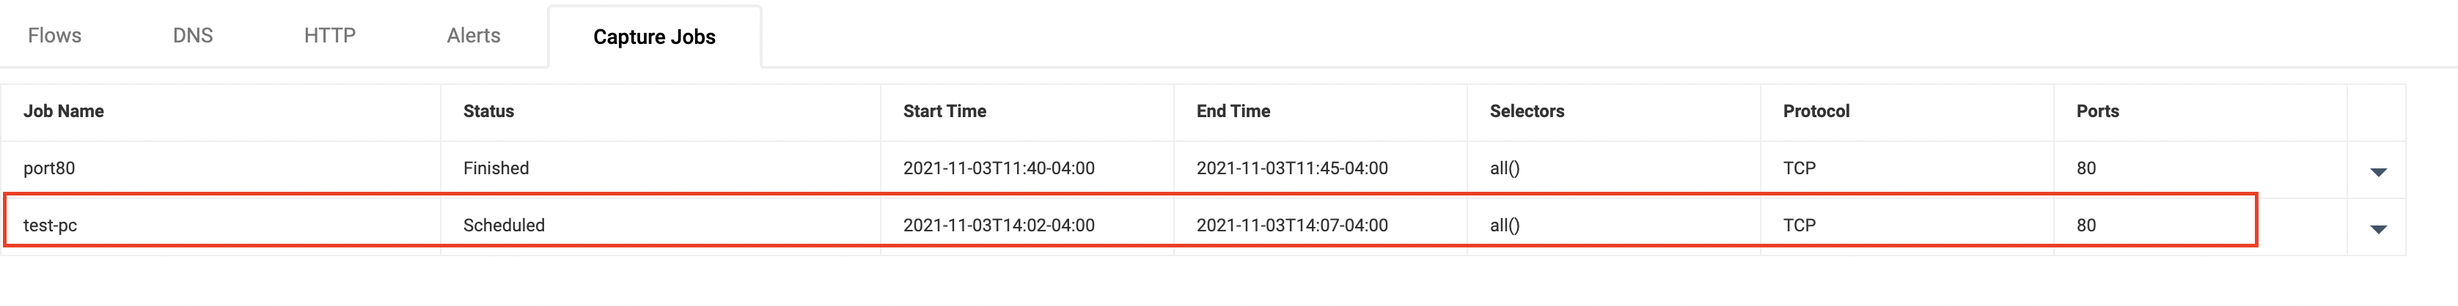
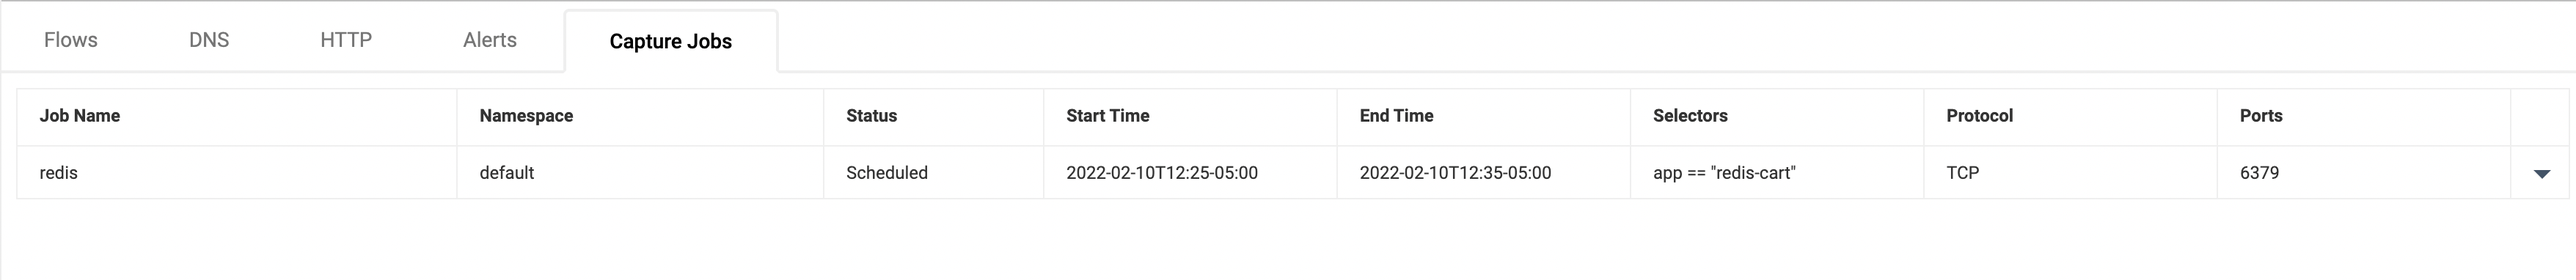
d

diff --git a/modules/creating-aks-cluster.md b/modules/creating-aks-cluster.md
@@ -127,7 +127,7 @@ echo export CLIENTSECRET=$CLIENTSECRET >> ~/.bashrc
      For this lab we'll use 1.21.1
 
     ```bash
-    K8SVERSION=1.21.1
+    K8SVERSION=1.22.4
     echo export K8SVERSION=1.21.1 >> ~/.bashrc
     ```
 
@@ -153,7 +153,7 @@ echo export CLIENTSECRET=$CLIENTSECRET >> ~/.bashrc
     ```bash
     Name                 Location    ResourceGroup      KubernetesVersion    ProvisioningState    Fqdn
     -------------------  ----------  -----------------  -------------------  -------------------  ----------------------------------------------------------------
-    jessie-aks-workshop  eastus      aks-rg-jessie1023  1.21.1               Succeeded            jessie-aks-aks-rg-jessie102-03cfb8-23b9dfec.hcp.eastus.azmk8s.io
+    jessie-aks-workshop  eastus      aks-rg-jessie      1.22.4               Succeeded            aks-jessie-aks-rg-jessie-03cfb8-b2e2e308.hcp.eastus.azmk8s.io
     ```
 
 5. Get the Kubernetes config files for your new AKS cluster
@@ -166,23 +166,23 @@ echo export CLIENTSECRET=$CLIENTSECRET >> ~/.bashrc
 
     > Note: It can take 5 minutes for your nodes to appear and be in READY state. You can run `watch kubectl get nodes` to monitor status. Otherwise, the cluster is ready when the output is similar to the following:
 
- ```bash
- kubectl get nodes
- ```
+    ```bash
+    kubectl get nodes
+    ```
 
- ```bash
+    ```bash
     NAME                                STATUS   ROLES   AGE   VERSION
-    aks-nodepool1-36555681-vmss000000   Ready    agent   47m   v1.21.1
-    aks-nodepool1-36555681-vmss000001   Ready    agent   47m   v1.21.1
-    aks-nodepool1-36555681-vmss000002   Ready    agent   47m   v1.21.1
+    aks-nodepool1-36555681-vmss000000   Ready    agent   47m   v1.22.4
+    aks-nodepool1-36555681-vmss000001   Ready    agent   47m   v1.22.4
+    aks-nodepool1-36555681-vmss000002   Ready    agent   47m   v1.22.4
 
- ```
+    ```
 
- To see more details about your cluster:
+    To see more details about your cluster:
 
- ```bash
- kubectl cluster-info
- ```
+    ```bash
+    kubectl cluster-info
+    ```
 
 7. Download this repo into your environment:
 

diff --git a/modules/packet-capture.md b/modules/packet-capture.md
@@ -6,14 +6,18 @@ Packet captures are Kubernetes Custom Resources and thus native Kubernetes RBAC 
 
 ## Steps
 
-1. Initial packet capture job from manager UI. 
+1. Choose an endpoint you want to capture from from manager UI, we will use `Redis` as example.
 
-   ![packet capture](../img/packet-capture-ui.png)
+  > Note: You can see the endpoint details from UI, and we choose the service port `6379` for capture the traffic.
+
+   ![select endpoint](../img/select-ep.png)
+
+   ![initial packet capture](../img/initiate-pc.png)
 
 
-2. Schedule the packet capture job with specific port.
+2. Schedule the packet capture job with specific port and time.
 
-   ![test packet capture](../img/test-packet-capture.png)
+   ![schedule the job](../img/schedule-packet-capture-job.png)
 
 
 3. You will see the job scheduled in service graph.
@@ -27,20 +31,10 @@ Packet captures are Kubernetes Custom Resources and thus native Kubernetes RBAC 
    ![download packet capture](../img/download-packet-capture.png)
    
 
-5. create packet capture from yaml file with label selector.
+5. Open the pcap file with wireshark or other utilis, you will see the ingress and egress traffic associate with `redis` pods i.e `10.240.0.71`
    
-   Navigate to `demo/80-packet-capture` and review YAML manifests that represent packet capture definition. Each packet capture is configured by deploying a `PacketCapture` resource that targets endpoints using `selector` and `labels`.
-
-    Deploy packet capture definition to capture packets for `default/frontend` pods.
-
-
-    ```bash
-    kubectl apply -f demo/80-packet-capture/packet-capture.yaml
-    ```
-
-    Once the `PacketCapture` resource is deployed, Calico starts capturing packets for endpoints configured in the `selector` field. You can see this job in service graph as well. 
-
-    ![frontend packet capture](../img/frontend-packet-capture.png)
+   
+    ![redis packet capture](../img/redis-pcap.png)
 
 
 

diff --git a/README.md b/README.md
@@ -4,7 +4,7 @@
 
 ## AKS Calico Cloud Workshop
 
-The intent of this workshop is to introduce Calico Cloud(https://www.calicocloud.io/?utm_campaign=calicocloud&utm_medium=digital&utm_source=microsoft) to manage AKS clusters and leverage Calico features to implement the various use cases. While there are many capabilities that the Calico product provides, this workshop focuses on a subset of those that are used most often by enterprises to derive value from the Calico Product. 
+The intent of this workshop is to introduce [Calico Cloud](https://www.calicocloud.io/?utm_campaign=calicocloud&utm_medium=digital&utm_source=microsoft) to manage AKS clusters and leverage Calico features to implement the various use cases. While there are many capabilities that the Calico product provides, this workshop focuses on a subset of those that are used most often by enterprises to derive value from the Calico Product. 
 
 
 ## Learning Objectives

diff --git a/modules/pod-access-controls.md b/modules/pod-access-controls.md
@@ -60,7 +60,7 @@
 
     ```bash
     # make a request across namespaces and view Packets by Policy histogram
-    for i in {1..10}; do kubectl -n dev exec -t centos -- sh -c 'curl -m3 -sI http://frontend.default 2>/dev/null | grep -i http'; sleep 2; done
+    for i in {1..5}; do kubectl -n dev exec -t centos -- sh -c 'curl -m3 -sI http://frontend.default 2>/dev/null | grep -i http'; sleep 2; done
     ```
 
     >The staged policy does not affect the traffic directly but allows you to view the policy impact if it were to be enforced.
